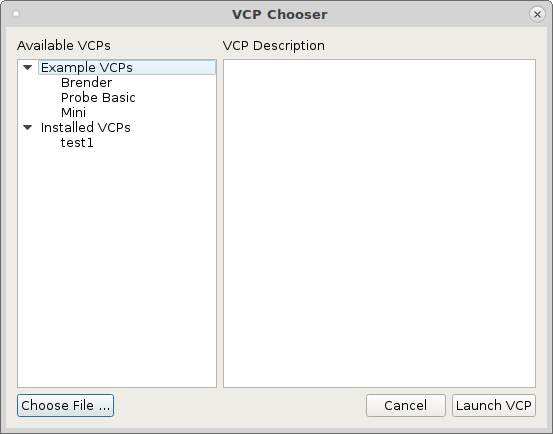
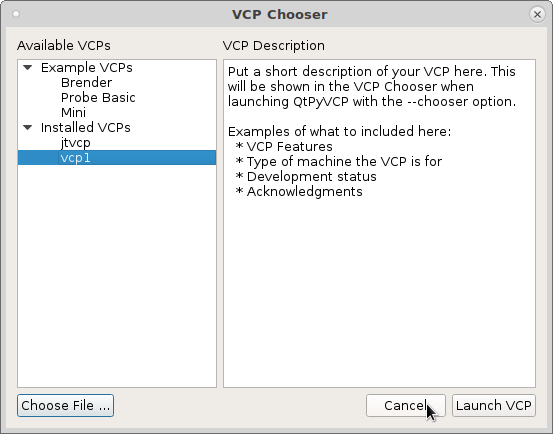
DOC: rework first page of tutorial and add more content

diff --git a/docs/source/tutorials/first_vcp.rst b/docs/source/tutorials/first_vcp.rst
@@ -4,7 +4,8 @@ Making your first VCP
 
 After installing and testing QtPyVCP clone the `vcp-template` then make a copy.
 
-To copy the example template in a terminal
+To copy the example template in a terminal run `copy.sh` and use a new name that
+contains only letters, numbers and the underscore _.
 
 .. code-block:: bash
 
@@ -12,41 +13,30 @@ To copy the example template in a terminal
     cd vcp-template
     ./copy.sh
 
-To edit the new template created from the example
+To edit the new template created from the vcp-template run the following. In
+this example the copied vcp-template was named `vcp1`.
 
 .. code-block:: bash
 
-    editvcp
+    editvcp vcp1
 
-Navigate to the new vcp location and open the `config.yml` file.
+.. image:: images/vcp1-01.png
+   :align: center
+   :scale: 40 %
 
-.. code-block:: bash
+Now we have a very basic VCP with only a few items in it. You can either delete
+everything but the main window and central widget and start from scratch or just
+add to the vcp-template. In this tutorial I'm going to start with a blank slate
+so we don't miss any important details.
 
-    ~/config_name/config_name/config.yml
+This example has to work on a small touch screen with a resolution of 800x600 so
+I set the main window size and the vertical and horzontal policy to fixed.
 
-The Qt Designer should open up with the VCP for editing.
-
-Action Buttons
-^^^^^^^^^^^^^^
-
-Click on the `E-Stop` action button then scroll down in the property editor
-until you find `Action Name` and you will see the name is `machine.estop.toggle`.
-In the :doc:`Machine Actions <../actions/machine_actions>` document you can find
-the info about `qtpyvcp.actions.machine_actions.estop`. In this case it's using the
-`toggle()` function, so to use the `reset()` function you would put
-`machine.estop.reset` as the `Action Name`.
-
-To create an `Action Button` drag it from the `LinuxCNC Buttons` section of the
-`Widget Box` and drop it in place. In this example a Home X button will be
-created. In the `Action Name` box put `machine.home.axis:x`. Looking at the
-`Machine Actions` doc you will see the `class qtpyvcp.actions.machine_actions.home`
-and under that all the options. The `static **axis**(axis)` shows that it can take
-a parameter of axis letter or axis number. Save your VCP and test it, note the
-E-Stop must be out and the power button on before homing.
-
+.. image:: images/vcp1-02.png
+   :align: center
+   :scale: 40 %
 
 Testing the VCP
-^^^^^^^^^^^^^^^
 
 To test your vcp start LinuxCNC and pick a configuration from sim.qtpyvcp
 
@@ -59,6 +49,57 @@ then pick your VCP from the Installed VCPs.
 .. image:: images/vcp-chooser.png
    :align: center
    :scale: 75 %
+
+Now you can see a blank VCP with a menu added.
+
+.. image:: images/vcp1run-01.png
+   :align: center
+   :scale: 75 %
+
+Navigate to the new vcp location and open the `config.yml` file with a text
+editor. Here you can change the author, version, description.
+
+The `mainwindow.py` is the file to add any custom methods.
+
+The `style.qss` is a place to put css styles. In the following example it is for
+an `ActionButton` with the `actionName` of machine.estop.toggle and when it is
+checked change the background color to red. The important thing to note is the
+`checked`, by default an action button is not checkable so for this to work you
+must select that in the `Property Editor`.
+
+.. code-block:: css
+
+    ActionButton[actionName="machine.estop.toggle"]:checked{
+        background: rgb(239, 41, 41);
+    }
+
+To make testing a bit faster in the `~/linuxcnc/configs/sim.qtpyvcp` directory
+make a copy of xyz.ini and rename it vcp1.ini. In the [DISPLAY] section add
+`VCP = vcp1`. Now run the LinuxCNC configuration selector and pick `vcp1` and
+check `Create Desktop Shortcut`. Now we can launch vcp1 with a single mouse
+click.
+
+Create Machine Buttons
+
+I added a tab widget to the central widget then added a Grid Layout. Right click
+on the Grid Layout and morph it into a QGroupBox. Now drag an ActionButton into
+the group box, add text and make it checkable. Now in the `actionName` add
+`machine.estop.toggle` and save and run the vcp. When you toggle the E Stop
+button it should turn red when on and original color when off.
+
+.. image:: images/vcp1run-02.png
+   :align: center
+   :scale: 75 %
+
+Now add a second button for machine power and in the `actionName` put
+`machine.power.toggle`. When you run the vcp you can see the colors change on
+the buttons as you toggle them. The styles are in styles.qss.
+
+.. image:: images/vcp1run-03.png
+   :align: center
+   :scale: 75 %
+
+
 
 
 
